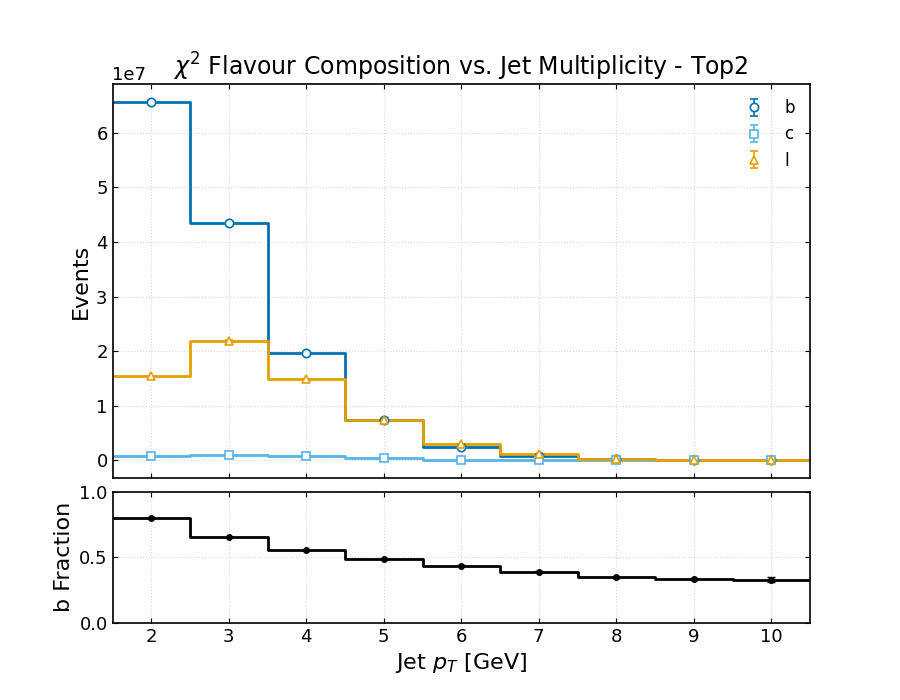
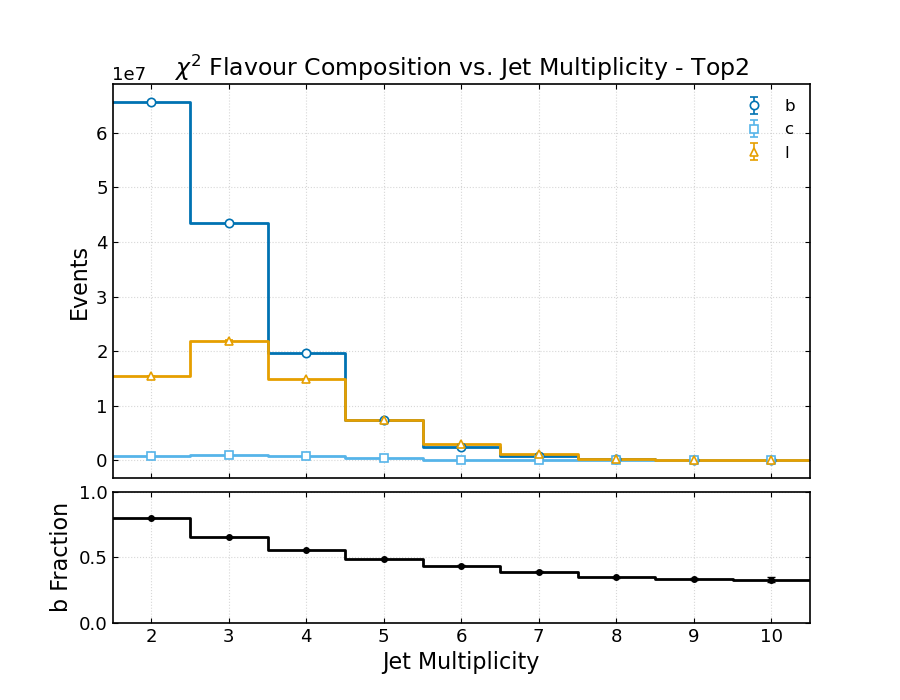
2.8.4 - b-tagging efficiencies calculated for MC data as a function of leading jet pT

diff --git a/MC_GN2_TagEff.py b/MC_GN2_TagEff.py
@@ -19,52 +19,49 @@ pt_regions = [
     ("210to240", "jet_pt_region_210to240_GeV_NOSYS"),
     ("240to270", "jet_pt_region_240to270_GeV_NOSYS"),
     ("270to300", "jet_pt_region_270to300_GeV_NOSYS"),
-]
+    ("300to330", "jet_pt_region_300to330_GeV_NOSYS"),
+    ("330to360", "jet_pt_region_330to360_GeV_NOSYS"),
+    ("360to390", "jet_pt_region_360to390_GeV_NOSYS"),
+    ("390to420", "jet_pt_region_390to420_GeV_NOSYS"),
+    ("420to450", "jet_pt_region_420to450_GeV_NOSYS"),
+    ("450to480", "jet_pt_region_450to480_GeV_NOSYS"),
+    ("480to510", "jet_pt_region_480to510_GeV_NOSYS"),
+    ("510to540", "jet_pt_region_510to540_GeV_NOSYS"),
+    ("540to570", "jet_pt_region_540to570_GeV_NOSYS"),
+    ("570to600", "jet_pt_region_570to600_GeV_NOSYS"),
 
-flavour_cats = ["bb", "bc", "bl", "cc", "cl", "ll"]
+]
 
 # -------------------------------------------------
 # Helpers
 # -------------------------------------------------
-def flavour_label(f):
-    f = abs(int(f))
-    if f == 5:
-        return "b"
-    elif f == 4:
-        return "c"
-    elif f == 0:
-        return "l"
-    else:
-        return None
+def is_b_flavour(f):
+    """Return True if jet truth flavour corresponds to a b-jet."""
+    try:
+        return abs(int(f)) == 5
+    except Exception:
+        return False
 
-def pair_category(f1, f2):
-    l1 = flavour_label(f1)
-    l2 = flavour_label(f2)
-    if l1 is None or l2 is None:
-        return None
-    return "".join(sorted([l1, l2]))
-
-def weighted_fraction_and_error(sumw_cat, sumw2_cat, sumw_tot, sumw2_tot):
+def efficiency_and_error(sumw_num, sumw2_num, sumw_den, sumw2_den):
     """
-    Weighted fraction and uncertainty for an exclusive category:
-        p = sumw_cat / sumw_tot
+    Weighted efficiency and approximate binomial-like uncertainty:
+        eff = sumw_num / sumw_den
 
-    Uses the standard variance expression for a weighted binomial-like fraction.
+    Variance expression for weighted pass/fail counting.
     """
-    if sumw_tot <= 0.0:
+    if sumw_den <= 0.0:
         return 0.0, 0.0
 
-    frac = sumw_cat / sumw_tot
-
+    eff = sumw_num / sumw_den
     var = (
-        ((1.0 - frac) ** 2) * sumw2_cat
-        + (frac ** 2) * (sumw2_tot - sumw2_cat)
-    ) / (sumw_tot ** 2)
+        ((1.0 - eff) ** 2) * sumw2_num
+        + (eff ** 2) * (sumw2_den - sumw2_num)
+    ) / (sumw_den ** 2)
 
     if var < 0.0:
         var = 0.0
 
-    return frac, np.sqrt(var)
+    return eff, np.sqrt(var)
 
 # -------------------------------------------------
 # Load branches
@@ -74,6 +71,7 @@ branches = [
     "jet_size_NOSYS",
     "ordered_jet_truth_flavour_NOSYS",
     "raw_chi2_minval_truthall_NOSYS",
+    "jet_select_GN2v01_FixedCutBEff_77_NOSYS",
     "weight_mc_NOSYS",
     "weight_pileup_NOSYS",
     "weight_leptonSF_tight_NOSYS",
@@ -93,6 +91,7 @@ base_mask = (
 
 truth = arr["ordered_jet_truth_flavour_NOSYS"][base_mask]
 chi   = arr["raw_chi2_minval_truthall_NOSYS"][base_mask]
+wp77  = arr["jet_select_GN2v01_FixedCutBEff_77_NOSYS"][base_mask]
 
 w_event = (
     arr["weight_mc_NOSYS"]
@@ -107,7 +106,8 @@ region_flags = {
 }
 
 # -------------------------------------------------
-# Extract χ2-selected pair
+# Extract chi2-selected pair
+# Assumes raw_chi2_minval_truthall_NOSYS[:,0:2] are the selected jet indices
 # -------------------------------------------------
 chi_i = ak.to_numpy(ak.values_astype(chi[:, 0], int))
 chi_j = ak.to_numpy(ak.values_astype(chi[:, 1], int))
@@ -119,68 +119,79 @@ valid = (
     & (chi_i != chi_j)
 )
 
-truth = truth[valid]
+truth   = truth[valid]
+wp77    = wp77[valid]
 w_event = ak.to_numpy(w_event[valid])
-chi_i = chi_i[valid]
-chi_j = chi_j[valid]
+chi_i   = chi_i[valid]
+chi_j   = chi_j[valid]
 
 for label in region_flags:
     region_flags[label] = ak.to_numpy(region_flags[label][valid])
 
 idx = np.arange(len(truth))
+
 truth_i = ak.to_numpy(truth[idx, chi_i])
 truth_j = ak.to_numpy(truth[idx, chi_j])
 
-pair_cat = np.array(
-    [pair_category(f1, f2) for f1, f2 in zip(truth_i, truth_j)],
-    dtype=object
-)
-
-# keep only events that map to one of the six categories
-valid_cat = np.isin(pair_cat, flavour_cats)
-
-pair_cat = pair_cat[valid_cat]
-w_event = w_event[valid_cat]
-
-for label in region_flags:
-    region_flags[label] = region_flags[label][valid_cat]
+wp_i = ak.to_numpy(ak.values_astype(wp77[idx, chi_i], np.int32))
+wp_j = ak.to_numpy(ak.values_astype(wp77[idx, chi_j], np.int32))
 
 # -------------------------------------------------
-# Output weighted event fractions by pT region
+# Compute inclusive tagging efficiency by leading-jet pT region
+# Each selected true b-jet contributes separately
 # -------------------------------------------------
 print("\n" + "=" * 90)
-print("leading_jet_pt_bin, flavour, fraction, error")
+print("leading_jet_pt_bin, numerator_sumw, denominator_sumw, efficiency, error")
 print("=" * 90)
 
 for label, _ in pt_regions:
     bin_mask = (region_flags[label] == 1)
 
     if not np.any(bin_mask):
-        for cat in flavour_cats:
-            print(f"{label}, {cat}, 0.000000, 0.000000")
+        print(f"{label}, 0.000000, 0.000000, 0.000000, 0.000000")
         continue
 
-    w_bin = w_event[bin_mask]
-    cats_bin = pair_cat[bin_mask]
+    # Event quantities in this pT region
+    w_bin       = w_event[bin_mask]
+    truth_i_bin = truth_i[bin_mask]
+    truth_j_bin = truth_j[bin_mask]
+    wp_i_bin    = wp_i[bin_mask]
+    wp_j_bin    = wp_j[bin_mask]
 
-    sumw_tot = np.sum(w_bin)
-    sumw2_tot = np.sum(w_bin ** 2)
+    # Per-selected-jet truth b flags
+    jet1_is_b = np.array([is_b_flavour(x) for x in truth_i_bin], dtype=bool)
+    jet2_is_b = np.array([is_b_flavour(x) for x in truth_j_bin], dtype=bool)
 
-    for cat in flavour_cats:
-        cat_mask = (cats_bin == cat)
-        w_cat = w_bin[cat_mask]
+    # Per-selected-jet pass flags at WP77
+    jet1_pass = (wp_i_bin == 1)
+    jet2_pass = (wp_j_bin == 1)
 
-        sumw_cat = np.sum(w_cat)
-        sumw2_cat = np.sum(w_cat ** 2)
+    # Denominator: all selected true b-jets
+    den_weights = np.concatenate([
+        w_bin[jet1_is_b],
+        w_bin[jet2_is_b],
+    ])
 
-        frac, err = weighted_fraction_and_error(
-            sumw_cat=sumw_cat,
-            sumw2_cat=sumw2_cat,
-            sumw_tot=sumw_tot,
-            sumw2_tot=sumw2_tot,
-        )
+    # Numerator: all selected true b-jets passing WP77
+    num_weights = np.concatenate([
+        w_bin[jet1_is_b & jet1_pass],
+        w_bin[jet2_is_b & jet2_pass],
+    ])
 
-        print(f"{label}, {cat}, {frac:.6f}, {err:.6f}")
+    sumw_den  = np.sum(den_weights)
+    sumw2_den = np.sum(den_weights ** 2)
+
+    sumw_num  = np.sum(num_weights)
+    sumw2_num = np.sum(num_weights ** 2)
+
+    eff, err = efficiency_and_error(
+        sumw_num=sumw_num,
+        sumw2_num=sumw2_num,
+        sumw_den=sumw_den,
+        sumw2_den=sumw2_den,
+    )
+
+    print(f"{label}, {sumw_num:.6f}, {sumw_den:.6f}, {eff:.6f}, {err:.6f}")
 
 print("=" * 90)
 
@@ -192,5 +203,4 @@ for label, _ in pt_regions:
     bin_mask = (region_flags[label] == 1)
     count = np.count_nonzero(bin_mask)
     sumw = np.sum(w_event[bin_mask]) if count > 0 else 0.0
-    sumw2 = np.sum(w_event[bin_mask] ** 2) if count > 0 else 0.0
-    print(f"{label}: count={count}, sumw={sumw:.6f}, sumw2={sumw2:.6f}")
+    print(f"{label}: events={count}, event_sumw={sumw:.6f}")

diff --git a/nj_singleT_flavourplot.py b/nj_singleT_flavourplot.py
@@ -5,51 +5,52 @@ import matplotlib.pyplot as plt
 # Data (yields + b fraction)
 # =================================================
 b_yield = np.array([
-    [2, 65597776.0, 76494.34375],
-    [3, 43462832.0, 62070.24609375],
-    [4, 19623906.0, 41603.78515625],
-    [5, 7380257.0, 25465.98828125],
-    [6, 2477211.0, 14760.00390625],
-    [7, 748341.125, 8064.1650390625],
-    [8, 215984.515625, 4351.6538085938],
-    [9, 59451.7734375, 2265.2238769531],
-    [10, 16522.642578125, 1171.0747070312],
+    [2, 65579652.0, 76486.640625],
+    [3, 43396952.0, 62030.56640625],
+    [4, 19657534.0, 41645.37890625],
+    [5, 7366859.5, 25449.76171875],
+    [6, 2474501.75, 14714.4072265625],
+    [7, 734081.375, 7991.5068359375],
+    [8, 202954.375, 4186.7260742188],
+    [9, 57400.90625, 2247.84375],
+    [10, 15510.7099609375, 1153.5701904297],
 ], dtype=float)
-
 c_yield = np.array([
-    [2, 829367.375, 8586.912109375],
-    [3, 1079626.75, 9766.158203125],
-    [4, 768266.375, 8216.3125],
-    [5, 407414.28125, 5966.9692382812],
-    [6, 175589.34375, 3926.6940917969],
-    [7, 60320.8203125, 2274.6611328125],
-    [8, 19154.72265625, 1277.7174072266],
-    [9, 7318.7626953125, 799.4478759766],
-    [10, 2290.0251464844, 429.6172790527],
+    [2, 828055.75, 8598.359375],
+    [3, 1065230.125, 9703.0703125],
+    [4, 755854.5625, 8136.8315429688],
+    [5, 399746.6875, 5912.3569335938],
+    [6, 174852.265625, 3904.9409179688],
+    [7, 60902.375, 2303.5249023438],
+    [8, 22543.9921875, 1391.8453369141],
+    [9, 6581.0786132812, 760.9968261719],
+    [10, 1713.2377929688, 379.3201293945],
 ], dtype=float)
-
 l_yield = np.array([
-    [2, 15445648.0, 37137.96484375],
-    [3, 21855014.0, 44004.28125],
-    [4, 14981479.0, 36340.31640625],
-    [5, 7424835.5, 25518.6015625],
-    [6, 3028300.25, 16253.1171875],
-    [7, 1080631.375, 9683.814453125],
-    [8, 350376.6875, 5519.0810546875],
-    [9, 105006.265625, 3025.29296875],
-    [10, 28162.521484375, 1558.0169677734],
+    [2, 15464859.0, 37150.8046875],
+    [3, 21936354.0, 44075.0703125],
+    [4, 14961321.0, 36311.765625],
+    [5, 7446050.5, 25547.6953125],
+    [6, 3031623.0, 16299.40234375],
+    [7, 1094413.75, 9737.62109375],
+    [8, 360017.53125, 5618.1669921875],
+    [9, 107794.8125, 3048.0871582031],
+    [10, 29751.240234375, 1583.9177246094],
 ], dtype=float)
 
+# -------------------------------------------------
+# Weighted event fraction and error calculation
+# -------------------------------------------------
 b_frac = np.array([
-    [2, 0.8012156487, 0.0004167029],
-    [3, 0.6545857787, 0.0005493056],
-    [4, 0.5547605753, 0.0007846206],
-    [5, 0.4851440191, 0.0012005592],
-    [6, 0.4360441864, 0.0019477886],
-    [7, 0.3960957825, 0.0033156750],
-    [8, 0.3688789606, 0.0058940331],
-    [9, 0.3460989892, 0.0106819842],
-    [10, 0.3517312706, 0.0201896060],
+    [2, 0.8009967208, 0.0004168279],
+    [3, 0.6535828710, 0.0005496177],
+    [4, 0.5556945205, 0.0007844154],
+    [5, 0.4842585623, 0.0012005092],
+    [6, 0.4355767965, 0.0019464498],
+    [7, 0.3885267377, 0.0033050032],
+    [8, 0.3466248512, 0.0057937907],
+    [9, 0.3341598213, 0.0106427476],
+    [10, 0.3301894069, 0.0200403550],
 ], dtype=float)
 
 # =================================================
@@ -154,7 +155,7 @@ plot_with_errorbars(ax, nj, c, c_err, "c", "c")
 plot_with_errorbars(ax, nj, l, l_err, "l", "l")
 
 ax.set_ylabel("Events")
-ax.set_title(r"$\chi^2$ Flavour Composition vs. Jet Multiplicity - Top1")
+ax.set_title(r"$\chi^2$ Flavour Composition vs. Jet Multiplicity - Top2")
 
 ax.set_xlim(edges[0], edges[-1])
 
@@ -201,6 +202,6 @@ rax.grid(True, linestyle=":", alpha=0.5)
 # =================================================
 #plt.tight_layout()
 
-plt.savefig("chi2_top1_flavour_vs_jet_multiplicity.png")
+plt.savefig("chi2_top2_flavour_vs_jet_multiplicity.png")
 plt.show()
 plt.close()

diff --git a/efficiency_plotting.py b/efficiency_plotting.py
@@ -121,8 +121,8 @@ edges = centres_to_edges(jet_chi_const_sigma_mu, BIN_WIDTH)
 # -----------------------------
 fig, ax = plt.subplots()
 
-plot_with_errorbars(ax, jet_chi_crystal_ball, eff_chi_crystal_ball, err_chi_crystal_ball, r"Non-Constant", r"$\mu, \sigma \notin \mathbb{C}$")
-plot_with_errorbars(ax, jet_chi_const_sigma_mu, eff_chi_const_sigma_mu, err_chi_const_sigma_mu, r"Constant", r"$\mu, \sigma \in \mathbb{C}$")
+plot_with_errorbars(ax, jet_chi_crystal_ball, eff_chi_crystal_ball, err_chi_crystal_ball, r"Non-Constant", r"Non-Constant")
+plot_with_errorbars(ax, jet_chi_const_sigma_mu, eff_chi_const_sigma_mu, err_chi_const_sigma_mu, r"Constant", r"Constant")
 
 
 ax.set_xlabel("Jet Multiplicity")
